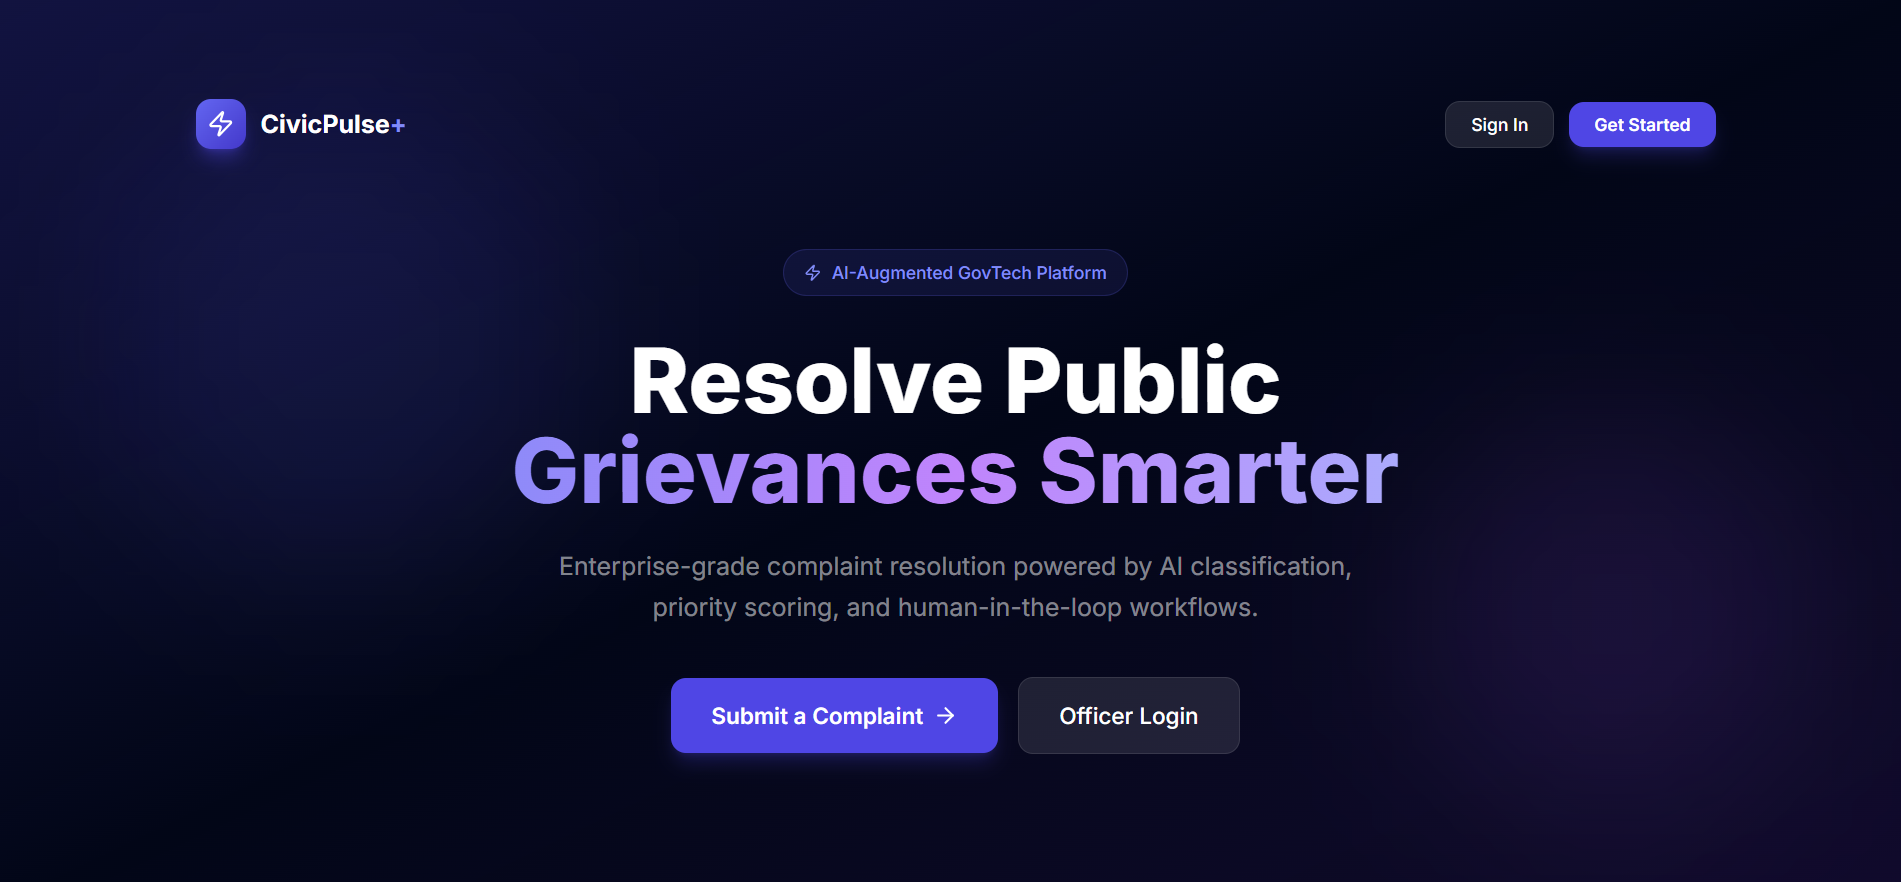
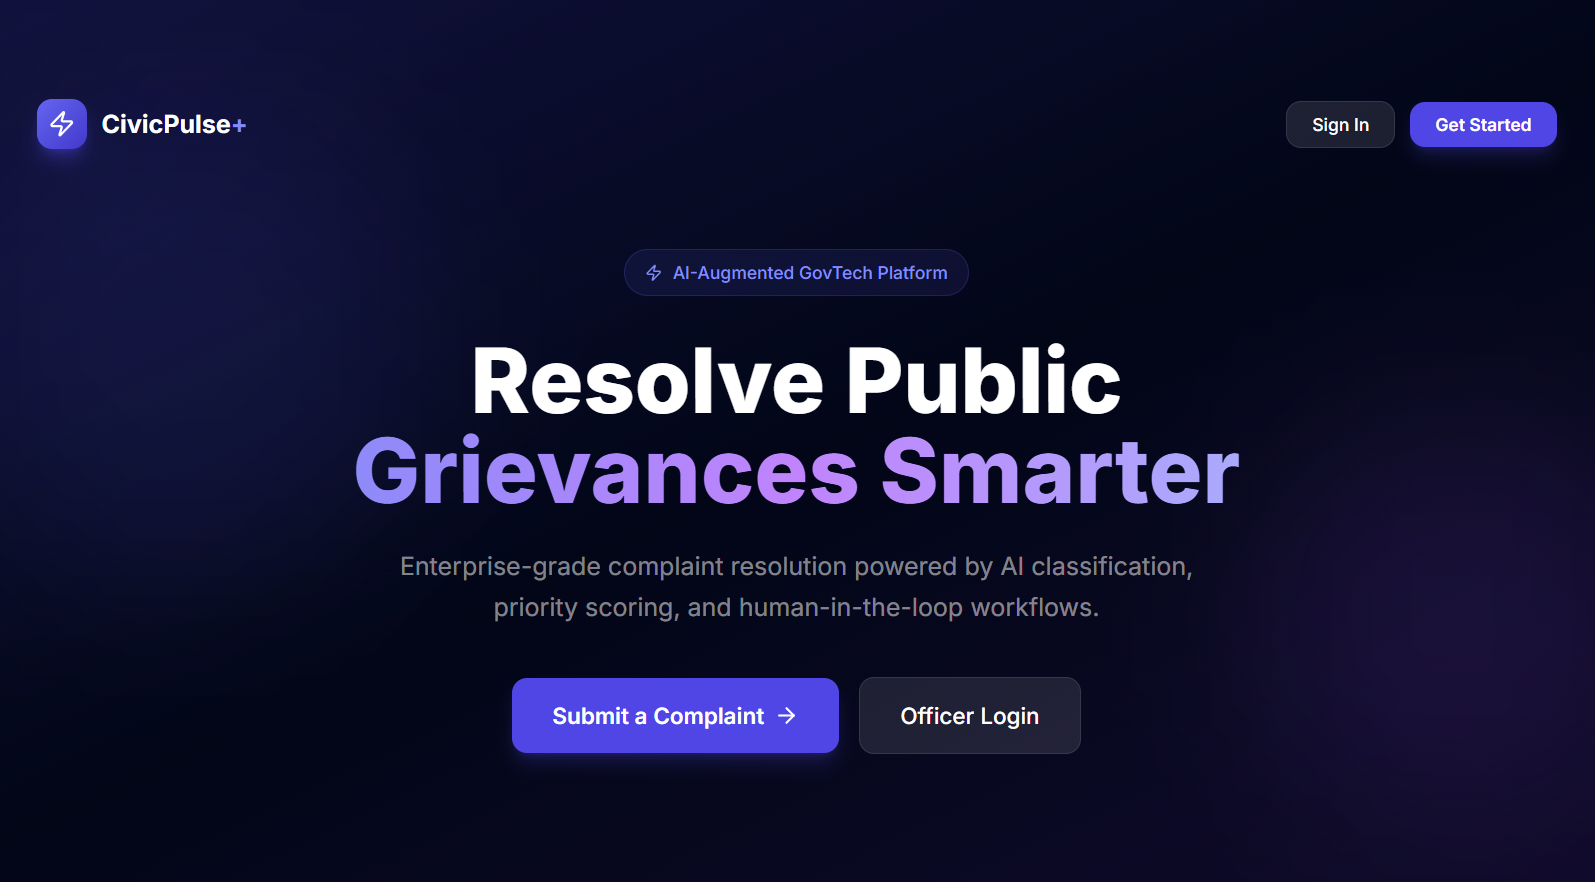
feat(portfolio): finalize project manual navigation and update internship completion status

diff --git a/src/components/Projects.tsx b/src/components/Projects.tsx
@@ -1,8 +1,7 @@
-import { useState, useRef, useCallback, useEffect } from 'react'
+import { useState, useCallback, useEffect } from 'react'
 import { motion } from 'framer-motion'
 import { useInView } from 'react-intersection-observer'
 import useEmblaCarousel from 'embla-carousel-react'
-import Autoplay from 'embla-carousel-autoplay'
 import { Github, ExternalLink, ChevronLeft, ChevronRight, CheckCircle2, Laptop } from 'lucide-react'
 
 /* --------------------------------------------------------
@@ -36,14 +35,14 @@ const mainProjects: Project[] = [
     stack: [
       'Java 17',
       'Spring Boot 3.2',
-      'Spring Cloud Gateway',
       'Python FastAPI',
-      'Hugging Face APIs',
-      'React 18',
       'PostgreSQL',
       'Apache Kafka',
       'Redis',
       'Docker',
+      'React 18',
+      'Spring Cloud Gateway',
+      'Hugging Face APIs',
     ],
     github: 'https://github.com/Sanskrutiraka/CivicPulse',
     live: 'https://civicpulse.onrender.com',
@@ -73,7 +72,7 @@ const mainProjects: Project[] = [
       'Git',
     ],
     github: 'https://github.com/Sanskrutiraka/ParkVahan',
-    live: 'https://github.com/Sanskrutiraka/ParkVahan',
+    live: 'https://parkvahan.com',
     image: '/projects/ParkVahan.png',
     badge: 'Internship Project',
     badgeColor: '#5FA8A0',
@@ -124,7 +123,7 @@ const mainProjects: Project[] = [
     live: 'https://shopsphere-ecommerce-dusky.vercel.app',
     image: '/projects/ShopSphere.png',
     badge: 'Hackathon Project',
-    badgeColor: '#F59E0B',
+    badgeColor: '#EC4899',
   },
 ]
 
@@ -141,7 +140,7 @@ const otherProjects: Project[] = [
     stack: ['React Native', 'Node.js', 'Express.js', 'MongoDB', 'JWT', 'TypeScript', 'Vercel'],
     github: 'https://github.com/Sanskrutiraka/FocusDo',
     live: 'https://focus-do-task.vercel.app',
-    image: '/projects/focusdo.png',
+    image: '/projects/FocusDo.png',
     badge: 'Full-Stack App',
     badgeColor: '#EC4899',
   },
@@ -157,7 +156,7 @@ const otherProjects: Project[] = [
     stack: ['TypeScript', 'React', 'Tailwind CSS', 'Vite', 'OCR / APIs', 'Vercel'],
     github: 'https://github.com/Sanskrutiraka/vehicle-plate-check-audit',
     live: 'https://vehicle-plate-check-audit.vercel.app',
-    image: '/projects/vehicle-plate.png',
+    image: '/projects/vehicle-plate-check.png',
     badge: 'Vision & Audit',
     badgeColor: '#06B6D4',
   },
@@ -404,23 +403,12 @@ function ProjectCarousel({
   items: Project[]
   sectionId: string
 }) {
-  const autoplay = useRef(
-    Autoplay({
-      delay: 3500,
-      stopOnInteraction: true,
-      rootNode: emblaRoot => emblaRoot.parentElement,
-    })
-  )
-
-  const [emblaRef, emblaApi] = useEmblaCarousel(
-    {
-      loop: true,
-      align: 'start',
-      dragFree: false,
-      containScroll: 'trimSnaps',
-    },
-    [autoplay.current]
-  )
+  const [emblaRef, emblaApi] = useEmblaCarousel({
+    loop: false,
+    align: 'start',
+    dragFree: false,
+    containScroll: 'trimSnaps',
+  })
 
   const [selectedIndex, setSelectedIndex] = useState(0)
   const [scrollSnaps, setScrollSnaps] = useState<number[]>([])
@@ -440,15 +428,30 @@ function ProjectCarousel({
     }
   }, [emblaApi, onSelect])
 
-  const scrollPrev = useCallback(() => emblaApi?.scrollPrev(), [emblaApi])
-  const scrollNext = useCallback(() => emblaApi?.scrollNext(), [emblaApi])
+  const scrollPrev = useCallback(() => {
+    if (!emblaApi) return
+    if (emblaApi.canScrollPrev()) {
+      emblaApi.scrollPrev()
+    } else {
+      emblaApi.scrollTo(scrollSnaps.length - 1)
+    }
+  }, [emblaApi, scrollSnaps])
+
+  const scrollNext = useCallback(() => {
+    if (!emblaApi) return
+    if (emblaApi.canScrollNext()) {
+      emblaApi.scrollNext()
+    } else {
+      emblaApi.scrollTo(0)
+    }
+  }, [emblaApi])
 
   return (
     <div className="relative">
       {/* Controls Bar for this Carousel */}
       <div className="flex items-center justify-between mb-4">
         <p className="text-xs text-[#8E96A4]">
-          Swipe or drag to browse · Auto-scrolls · Hover to pause
+          Swipe or drag to browse · Use arrows to navigate
         </p>
         <div className="flex items-center gap-2">
           <button
@@ -476,8 +479,6 @@ function ProjectCarousel({
       <div
         className="embla overflow-hidden -mx-2 px-2 py-2"
         ref={emblaRef}
-        onMouseEnter={() => autoplay.current.stop()}
-        onMouseLeave={() => autoplay.current.play()}
       >
         <div className="embla__container flex gap-5">
           {items.map(project => (

diff --git a/src/components/Experience.tsx b/src/components/Experience.tsx
@@ -10,9 +10,9 @@ const experiences = [
     id: 'intern-1',
     role: 'Software Development Intern',
     company: 'AmbuGrid System LLP',
-    duration: 'Jun 2026 – Present',
+    duration: 'Jun 2026 – Oct 2026',
     location: 'Pune, MH (Hybrid)',
-    type: 'Internship',
+    type: 'Completed Internship',
     bullets: [
       'Contributed to ParkVahan — a parking and mobility platform — working on application features across mobile (React Native/Expo) and web (React.js) surfaces, backed by a Node.js + Express.js REST API and Supabase/PostgreSQL database.',
       'Worked on API integration tasks including connecting third-party services for vehicle verification, notifications, and payments; handled API documentation, debugging, and integration testing.',

diff --git a/src/components/Contact.tsx b/src/components/Contact.tsx
@@ -332,8 +332,8 @@ export default function Contact() {
                 </span>
               </div>
               <p className="text-xs leading-relaxed" style={{ color: '#A6ADBB' }}>
-                Currently a Software Development Intern at AmbuGrid System LLP.
-                Seeking full-time software engineering opportunities (Junior Software
+                Completed Software Development Internship at AmbuGrid System LLP (Oct 20, 2026).
+                Actively seeking full-time software engineering roles (Junior Software
                 Engineer / Java Backend Developer). Open to Pune, Bangalore, or fully remote.
               </p>
             </div>

diff --git a/src/components/About.tsx b/src/components/About.tsx
@@ -80,7 +80,7 @@ const stats: StatCardProps[] = [
   },
   {
     value: 'Intern',
-    label: 'Software Development Intern · Jun 2026–Present · AmbuGrid System LLP',
+    label: 'Software Development Intern · Jun 2026–Oct 2026 · AmbuGrid System LLP',
     icon: <Briefcase size={18} />,
     delay: 0.2,
   },
